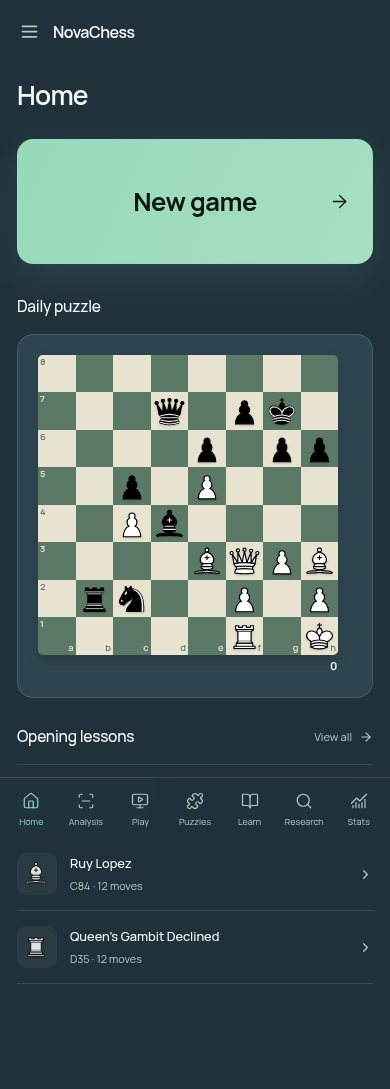
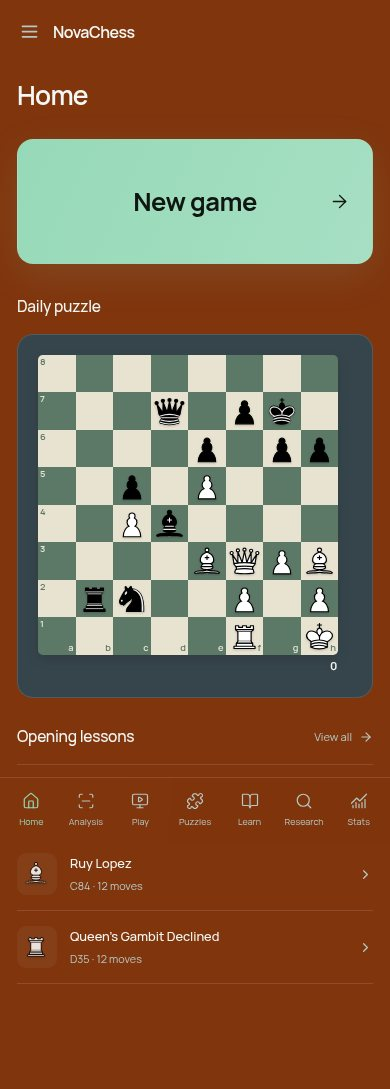
Use a burnt-orange default app background

diff --git a/src/main.tsx b/src/main.tsx
@@ -254,24 +254,26 @@ function App() {
   }, [appearance.sound, appearance.volume]);
   useEffect(() => {
     setAppearance((a) =>
-      ["#101418", "#101612", "#19262e"].includes(a.backgroundColor) &&
-      ["#1b2126", "#1c271f", "#263840"].includes(a.panelColor) &&
-      ["#f0f3f1", "#eef4ed", "#f4f8f5"].includes(a.textColor) &&
-      ["#a6b0aa", "#abb8aa", "#b5c8c5"].includes(a.mutedColor)
-        ? {
-            ...a,
-            backgroundColor: defaults.backgroundColor,
-            panelColor: defaults.panelColor,
-            textColor: defaults.textColor,
-            mutedColor: defaults.mutedColor,
-            accent: a.accent === "#78b58a" ? defaults.accent : a.accent,
-            buttonColor:
-              a.buttonColor === "#78b58a"
-                ? defaults.buttonColor
-                : a.buttonColor,
-            font: a.font === "DM Sans" ? defaults.font : a.font,
-          }
-        : a,
+      a.backgroundColor === "#20313b"
+        ? { ...a, backgroundColor: defaults.backgroundColor }
+        : ["#101418", "#101612", "#19262e"].includes(a.backgroundColor) &&
+            ["#1b2126", "#1c271f", "#263840"].includes(a.panelColor) &&
+            ["#f0f3f1", "#eef4ed", "#f4f8f5"].includes(a.textColor) &&
+            ["#a6b0aa", "#abb8aa", "#b5c8c5"].includes(a.mutedColor)
+          ? {
+              ...a,
+              backgroundColor: defaults.backgroundColor,
+              panelColor: defaults.panelColor,
+              textColor: defaults.textColor,
+              mutedColor: defaults.mutedColor,
+              accent: a.accent === "#78b58a" ? defaults.accent : a.accent,
+              buttonColor:
+                a.buttonColor === "#78b58a"
+                  ? defaults.buttonColor
+                  : a.buttonColor,
+              font: a.font === "DM Sans" ? defaults.font : a.font,
+            }
+          : a,
     );
   }, []);
   useEffect(() => {

diff --git a/tests/website.spec.ts b/tests/website.spec.ts
@@ -36,7 +36,7 @@ test("dark Home provides tools, has no clock/camera/slogans, and fits responsive
   await expect(page.getByRole("link", { name: /Daily puzzle/ })).toBeVisible();
   await expect(page.locator(".app")).toHaveCSS(
     "background-color",
-    "rgb(32, 49, 59)",
+    "rgb(128, 53, 13)",
   );
   await expect(
     page.getByRole("heading", { name: /Your next move|A little brighter/ }),

diff --git a/index.html b/index.html
@@ -3,7 +3,7 @@
   <head>
     <meta charset="UTF-8" />
     <meta name="viewport" content="width=device-width, initial-scale=1.0" />
-    <meta name="theme-color" content="#19262e" />
+    <meta name="theme-color" content="#80350d" />
     <meta
       name="description"
       content="Chess analysis, computer play, 4,000 puzzles, opening and endgame training in a customizable local workspace."

diff --git a/src/lib/store.ts b/src/lib/store.ts
@@ -56,7 +56,7 @@ export const backgrounds = [
 export const defaults: Appearance = {
   theme: "Forest",
   background: "Default",
-  backgroundColor: "#20313b",
+  backgroundColor: "#80350d",
   accent: "#96d9b8",
   buttonColor: "#96d9b8",
   textColor: "#f4f8f5",

diff --git a/src/styles.css b/src/styles.css
@@ -2,7 +2,7 @@
   font-family: "DM Sans", sans-serif;
   color-scheme: dark;
   font-synthesis: none;
-  background: #20313b;
+  background: #80350d;
 }
 * {
   box-sizing: border-box;

diff --git a/src/redesign.css b/src/redesign.css
@@ -42,6 +42,8 @@
   display: none;
 }
 .sidebar-label {
+  color: var(--muted);
+  opacity: 1;
   margin: 28px 13px 11px;
   font-size: 0.59rem;
   letter-spacing: 1.6px;

diff --git a/README.md b/README.md
@@ -36,7 +36,7 @@ Set `CHROMIUM_PATH` to use another Chromium binary. The build creates static fil
 - **Famous games:** 12 complete annotated master games, key-moment jumps, move-by-move replay, adjustable autoplay, analysis links, saving and full-game GIF export. Saved games also export GIFs.
 - **Analysis / Research:** browser Stockfish, branches, studies, position editor, exports, a dedicated public-game research tab with frequency-weighted arrows. Loading continues when you switch sections; progress and results remain intact.
 - **Profile / Controls:** username, bio, default pawn or uploaded avatar, country, personal settings, configurable shortcuts and annotation colors. Auto-queen defaults off; premoves default on. Profile opens from the bottom account button; Controls and Customize are inside it.
-- **Appearance:** nine themes, 12 palettes, six piece sets, custom colors/background images, bundled country flags, typography, layout, audio and personal presets. Defaults use brighter dark surfaces and mint accents.
+- **Appearance:** nine themes, 12 palettes, six piece sets, custom colors/background images, bundled country flags, typography, layout, audio and personal presets. Defaults use a burnt-orange background, dark panels and mint accents.
 - **Stats:** results, activity, training, 18 harder achievements, a country map and improvement patterns. Endgame Lessons use the same name throughout the site.
 - **Online, when connected:** Supabase accounts, persistent Throne queues, one-day Vote Chess, team rooms versus friends/bots, shared annotations, global chat, and real global/country rankings and percentiles.
 
